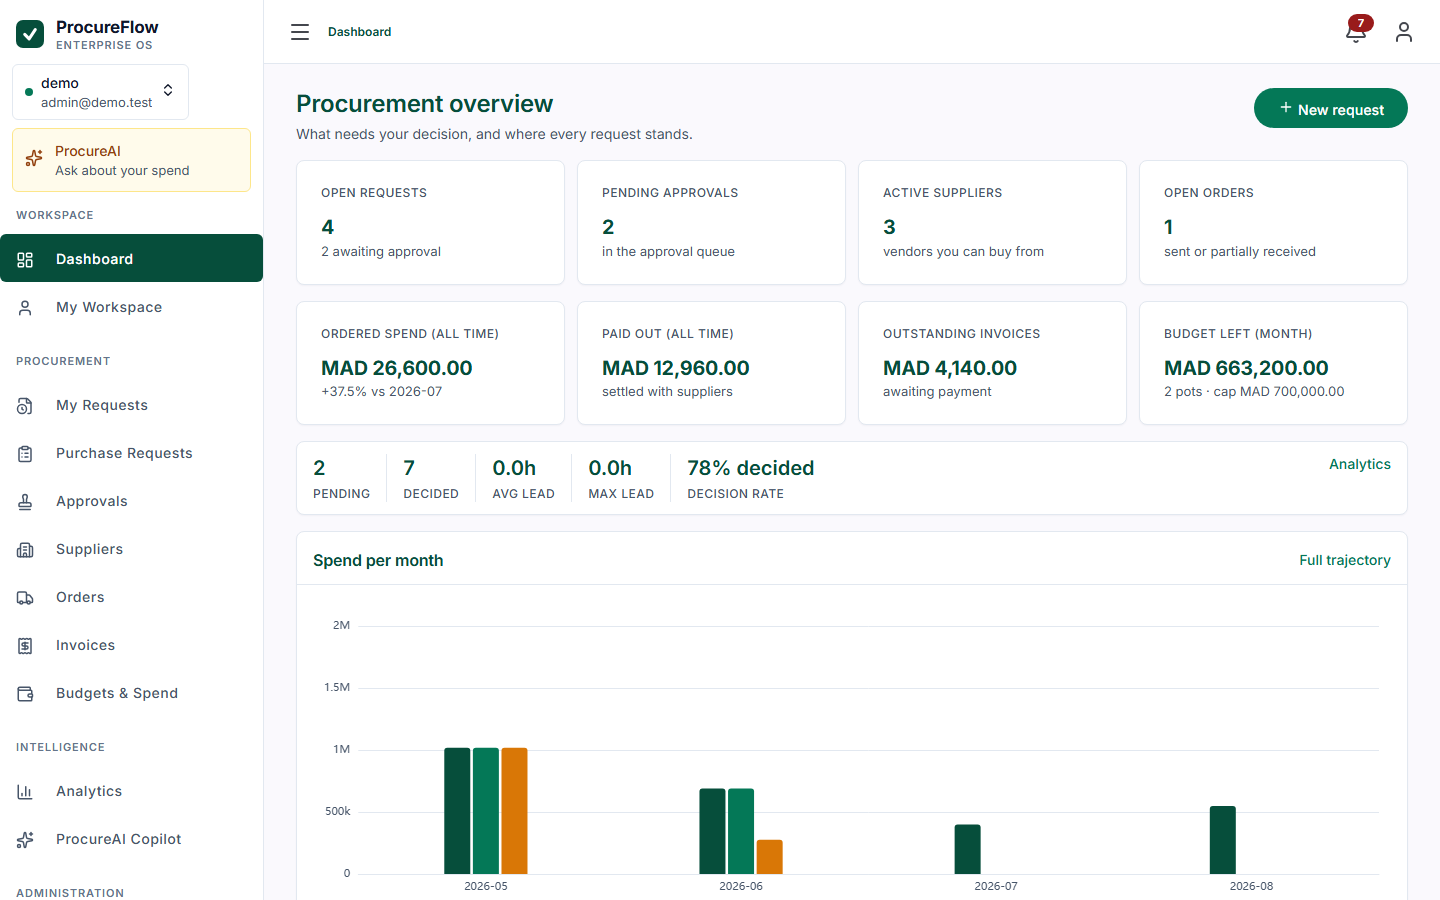
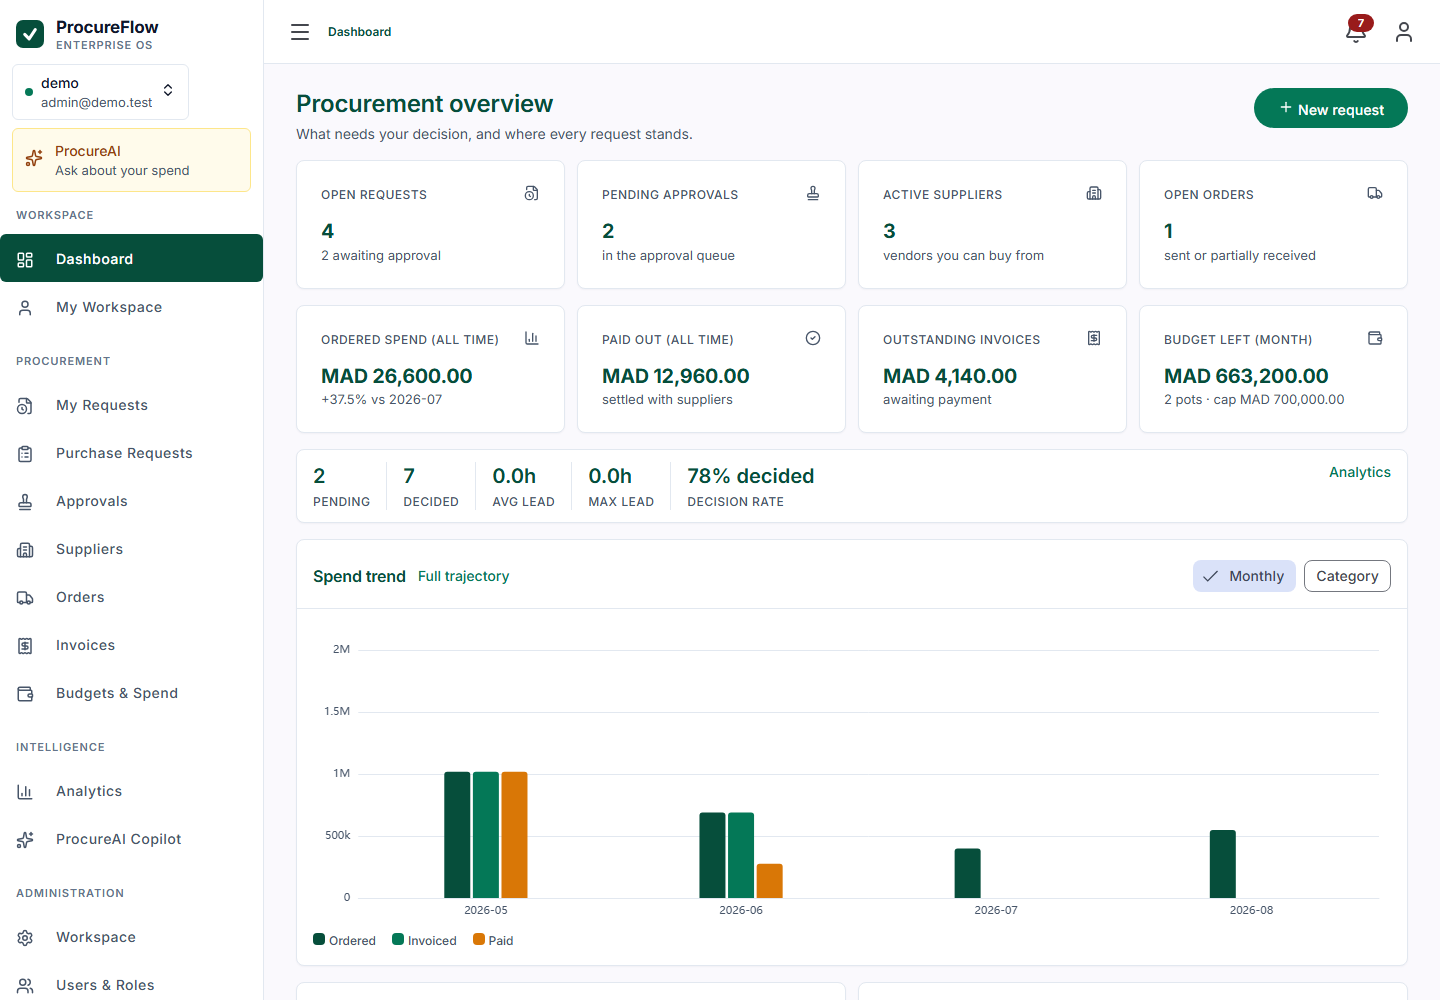
feat(dashboard): stitch-motif enrichment with real aggregates
KPI corner icons, Monthly/Category trajectory toggle reusing spend/donut charts, awaiting rows with avatar plus priority chip plus Review, relative time-ago on recents. Fixes baseStubs serving /orders while the API is /purchase-orders. Full Playwright 54 and 38 Vitest green on the shipped image.

diff --git a/context/progress-tracker.md b/context/progress-tracker.md
@@ -4,12 +4,12 @@ Live state of the project. Update after every meaningful change.
 
 ## Current phase
 
-**Phase 14 — audit remediation, hotfix: CSP broke global styles
-(this change).** PRs #14–#24 merged. Angular's critical-CSS print trick
-(`media="print"` + inline onload swapper) silently died under our
-script-src CSP, leaving the whole global stylesheet print-only: grids,
-cards, tables and links unstyled on every page while component styles
-survived. Fix: `inlineCritical: false` (plain stylesheet link).
+**Phase 15 — stitch reference alignment, one slice at a time (this
+change: dashboard).** Full 21-screen audit done (fake-data hazards
+named per screen). Dashboard slice: KPI corner icons, Monthly/Category
+trajectory toggle, awaiting rows with avatar + priority chip + Review,
+relative time-ago. AI anomaly banner and forecasts deliberately skipped
+(no detection/forecast aggregates — would be fake data).
 Phases 1–11 are delivered (see Completed + the merged PRs #1–#11 and open
 #12/#13): backend 113 IT + unit/ArchUnit green, frontend 24 Vitest + 18
 Playwright green, live-verified screens in `docs/screens/`. This pass:
